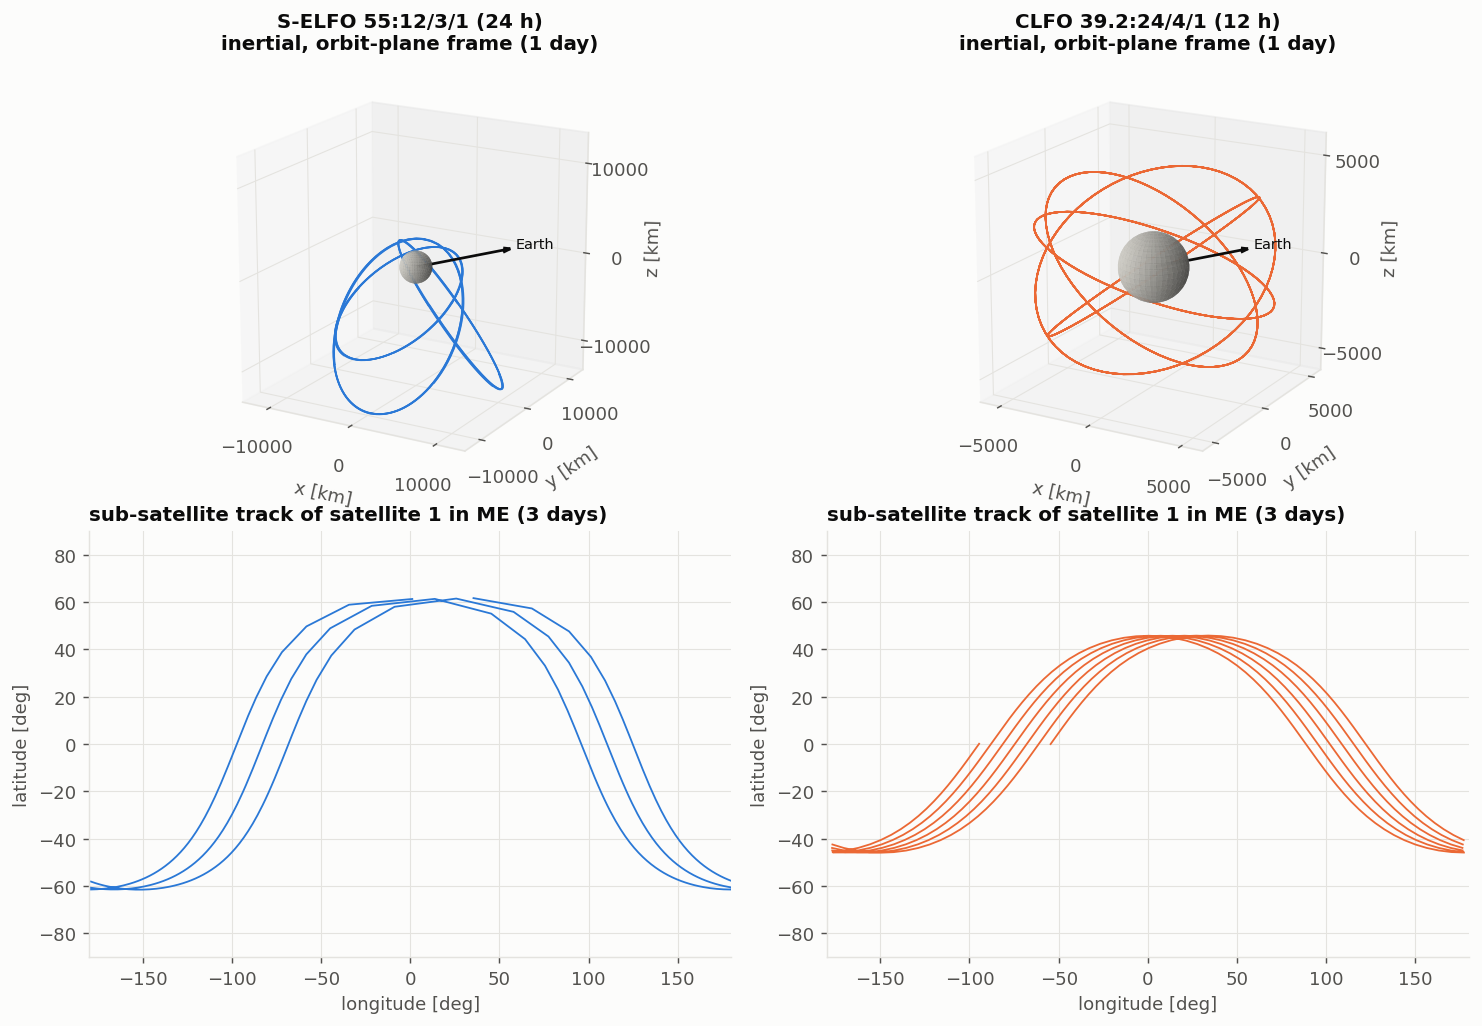
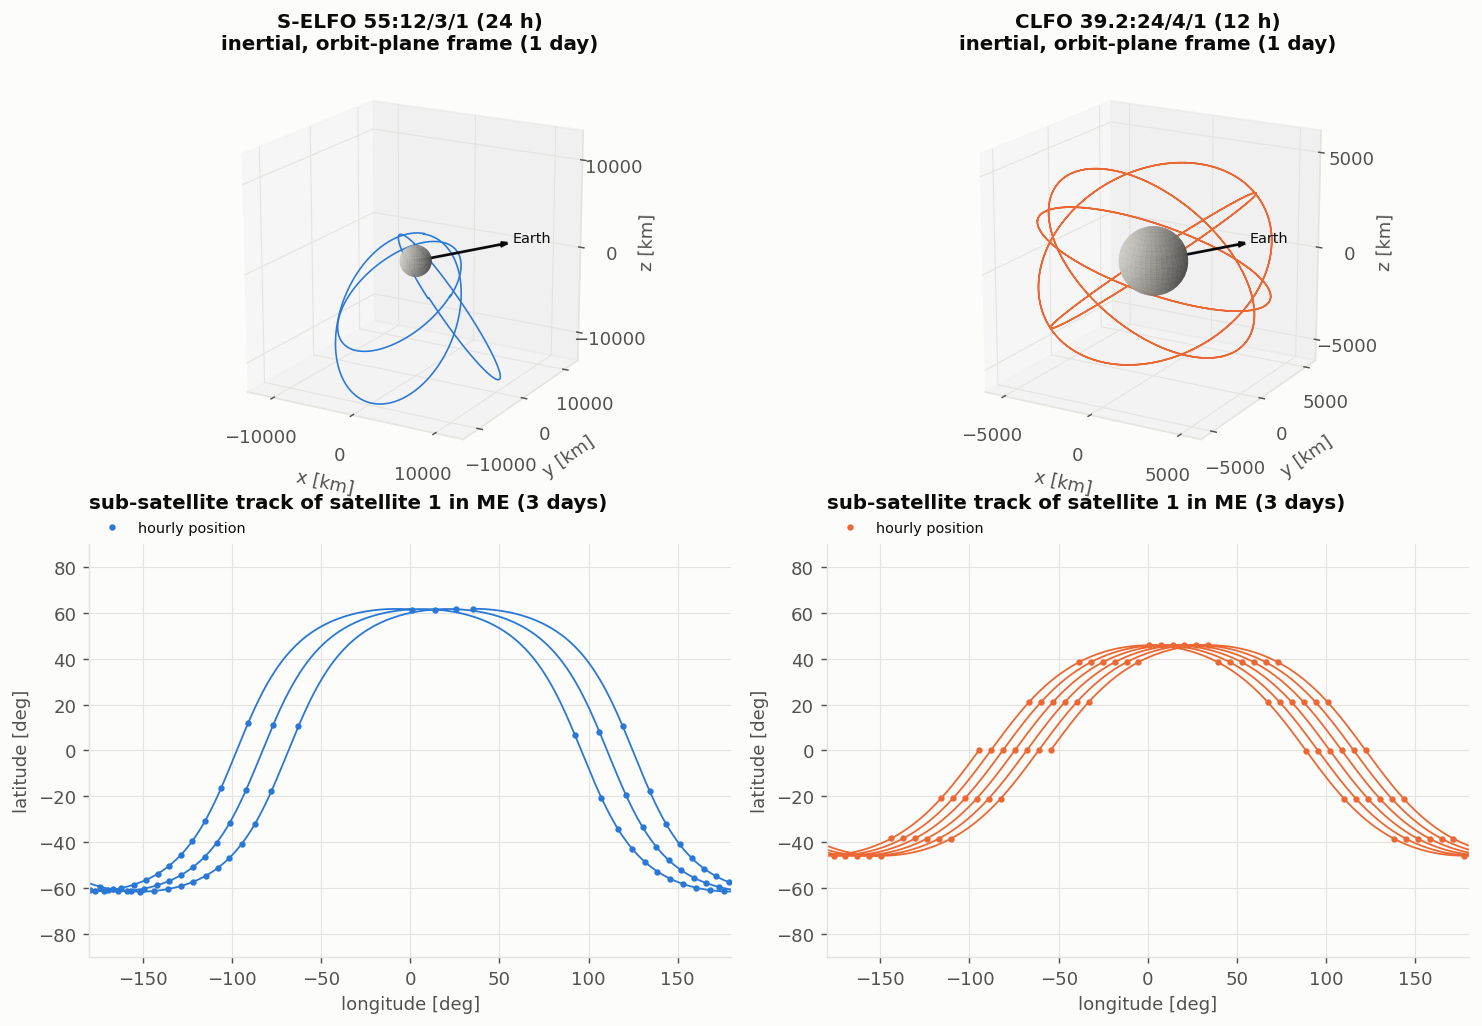
Fix figure artefacts and frame-plot directions
- Ground tracks and 3-D orbits were drawn from the 10 min analysis grid;
  near the 24 h ELFO perilune that is ~17 deg per sample, so tracks showed
  straight chords. Drawn satellites are now re-propagated on a 1 min grid,
  with hourly markers that show the apolune dwell over the south.
- PA vs ME arrows used angles="xy" on unequal map axes, which distorted
  their directions; now angles="uv" (true local east/north).
- Moved annotations and legends off the data in the frames and
  frozen-orbit figures; scoped the NaN warning filter.
- Docstrings: E1 node is J2000-referred (verified vs DE440: orbit-plane
  normal within 0.02 deg mean, 0.18 deg osculating); equator frame note.

diff --git a/scripts/run_demo.py b/scripts/run_demo.py
@@ -62,35 +62,38 @@ def fig_frames():
         lat[k], lon[k] = la, lo
     lon, lat = np.degrees(lon), np.degrees(lat)
 
-    fig, (a, b) = plt.subplots(1, 2, figsize=(11, 4.2), gridspec_kw={"width_ratios": [1, 1.25]})
+    fig, (a, b) = plt.subplots(1, 2, figsize=(11.5, 4.4), gridspec_kw={"width_ratios": [1, 1.3], "wspace": 0.3})
     a.plot(lon, lat, lw=0.35, color=BLUE, alpha=0.8)
     a.plot(0, 0, "+", color=ORANGE, ms=14, mew=2, label="mean Earth direction (ME +X)")
     a.set_xlabel("sub-Earth selenographic longitude [deg]")
     a.set_ylabel("sub-Earth latitude [deg]")
-    a.set_title("Optical libration seen in the ME frame (2 years)")
+    a.set_title("Earth libration in the ME frame (2 yr)")
     a.set_aspect("equal")
-    a.legend(loc="upper center", bbox_to_anchor=(0.5, -0.17), fontsize=8)
-    a.text(0.02, 0.97, f"max |lon| {np.abs(lon).max():.1f}°  max |lat| {np.abs(lat).max():.1f}°",
-           transform=a.transAxes, va="top", fontsize=8.5, color=INK2)
+    a.set_xlim(-10, 10); a.set_ylim(-9, 9)
+    a.legend(loc="upper center", bbox_to_anchor=(0.5, -0.15), fontsize=8, ncol=2,
+             title=f"max |lon| {np.abs(lon).max():.1f}°, max |lat| {np.abs(lat).max():.1f}°",
+             title_fontsize=8)
 
-    # displacement of a point when its ME coordinates are reinterpreted as PA coordinates
-    rot = R_pa_to_me()                      # v_ME = rot @ v_PA ; same label, different frame
-    la_g, lo_g = np.meshgrid(np.radians(np.arange(-75, 76, 25)), np.radians(np.arange(-150, 151, 30)))
+    # A point's PA coordinates u, misread as ME coordinates, land at u in ME; the point is really
+    # at rot @ u. Arrows go from the misread location to the true one, in local east/north metres.
+    rot = R_pa_to_me()                      # v_ME = rot @ v_PA
+    la_g, lo_g = np.meshgrid(np.radians(np.arange(-60, 61, 30)), np.radians(np.arange(-150, 151, 30)))
     la_g, lo_g = la_g.ravel(), lo_g.ravel()
     u = latlon_to_unit(la_g, lo_g)
-    d = (u @ rot.T - u) * C.R_MEAN * 1e3    # metres: ME position of the same PA-labelled point
+    d = (u @ rot.T - u) * C.R_MEAN * 1e3    # metres, ME components
     east = np.array([enu_basis(x, y)[0] @ dd for x, y, dd in zip(la_g, lo_g, d)])
     north = np.array([enu_basis(x, y)[1] @ dd for x, y, dd in zip(la_g, lo_g, d)])
-    q = b.quiver(np.degrees(lo_g), np.degrees(la_g), east, north, np.hypot(east, north), cmap="Blues",
-                 angles="xy", scale_units="xy", scale=45.0, width=0.004, clim=(0, 900))
-    b.quiverkey(q, 0.9, -0.2, 450, "450 m", labelpos="E", coordinates="axes")
+    # angles="uv": arrow direction is the true local compass direction, not distorted by
+    # the unequal degree scales of the map axes.
+    q = b.quiver(np.degrees(lo_g), np.degrees(la_g), east, north, color=BLUE, angles="uv",
+                 scale_units="inches", scale=2400.0, width=0.0045, pivot="middle")
+    b.quiverkey(q, 0.82, -0.17, 500, "500 m", labelpos="E", coordinates="axes", fontproperties={"size": 8})
     b.set_xlim(-180, 180)
-    b.set_ylim(-90, 90)
-    b.set_xlabel("longitude [deg]")
+    b.set_ylim(-80, 80)
+    b.set_xlabel("selenographic longitude [deg]")
     b.set_ylabel("latitude [deg]")
-    b.set_title("PA vs ME: shift of a surface point (DE440 offset)")
-    b.text(0.02, 0.97, f"rotation {np.degrees(np.arccos((np.trace(rot) - 1) / 2)):.4f}°, "
-           f"max {np.hypot(east, north).max():.0f} m", transform=b.transAxes, va="top", fontsize=8.5, color=INK2)
+    angle = np.degrees(np.arccos((np.trace(rot) - 1) / 2))
+    b.set_title(f"PA vs ME (DE440): {angle:.4f}°, up to {np.hypot(east, north).max():.0f} m")
     save(fig, "frames.png")
     return dict(lon_lib_max_deg=float(np.abs(lon).max()), lat_lib_max_deg=float(np.abs(lat).max()),
                 lon_mean_deg=float(lon.mean()), lat_mean_deg=float(lat.mean()),
@@ -119,8 +122,8 @@ def fig_frozen(days=90):
     axs[1].set_ylabel("inclination [deg]")
     axs[2].set_ylabel("arg. of periapsis [deg]")
     axs[2].set_xlabel("days since 2027-01-01")
-    axs[0].legend(fontsize=8.5, loc="upper left", ncol=2)
-    axs[0].set_title("24 h ELFO, i = 55°, e = frozen value, no station-keeping")
+    axs[0].legend(fontsize=8.5, loc="lower left", ncol=2, bbox_to_anchor=(0.0, 1.0))
+    axs[0].set_title("24 h ELFO, i = 55°, e = frozen value, no station-keeping", pad=24)
     save(fig, "frozen_orbit.png")
     summ = {}
     for label, el in out.items():
@@ -133,17 +136,20 @@ def fig_frozen(days=90):
 
 
 # --------------------------------------------------------------------------- constellations
-def region_stats(lat_deg, n_vis, dops, sel):
+def region_stats(n_vis, dops, sel):
     nv, p, h = n_vis[sel], dops["pdop"][sel], dops["hdop"][sel]
-    warnings.simplefilter("ignore", RuntimeWarning)     # all-NaN slices (never 4 sats) are reported as NaN
+    with warnings.catch_warnings():
+        warnings.simplefilter("ignore", RuntimeWarning)  # all-NaN slice (never 4 sats) -> NaN
+        median_pdop, p95 = float(np.nanmedian(p)), float(np.nanpercentile(p, 95))
+        median_hdop = float(np.nanmedian(h))
     return dict(
         users=int(sel.sum()),
         avail_4_sats_pct=float(100 * (nv >= 4).mean()),
         pdop_le_6_pct=float(100 * (p <= 6).mean()),
         pdop_le_3_pct=float(100 * (p <= 3).mean()),
-        median_pdop=float(np.nanmedian(p)),
-        p95_pdop=float(np.nanpercentile(p, 95)),
-        median_hdop=float(np.nanmedian(h)),
+        median_pdop=median_pdop,
+        p95_pdop=p95,
+        median_hdop=median_hdop,
         mean_visible=float(nv.mean()),
         min_visible=int(nv.min()),
     )
@@ -160,13 +166,15 @@ def run_constellation(const, days, step_s, users_unit, named):
 
 
 def fig_coverage(users_unit, results):
-    lat, lon = np.degrees(unit_to_latlon(users_unit))[0], np.degrees(unit_to_latlon(users_unit))[1]
+    lat, lon = np.degrees(unit_to_latlon(users_unit))
     n = len(users_unit)
     fig, axs = plt.subplots(2, 2, figsize=(11.5, 7.2))
     for row, (name, res) in enumerate(results.items()):
         _, _, _, n_vis, dops = res
         pd6 = 100 * (np.nan_to_num(dops["pdop"][:n], nan=1e9) <= 6).mean(axis=1)
-        med = np.nanmedian(dops["pdop"][:n], axis=1)
+        with warnings.catch_warnings():
+            warnings.simplefilter("ignore", RuntimeWarning)
+            med = np.nanmedian(dops["pdop"][:n], axis=1)
         ax = axs[row, 0]
         s = ax.scatter(lon, lat, c=pd6, s=16, cmap="Blues", vmin=-15, vmax=100, edgecolors=INK2, linewidths=0.3)
         ax.set_title(f"{name}\n% of time with PDOP ≤ 6")
@@ -203,7 +211,7 @@ def fig_southpole(results, named_index, days_shown=3):
     save(fig, "south_pole_timeseries.png")
 
 
-def fig_orbits(consts, results):
+def fig_orbits(consts):
     fig = plt.figure(figsize=(11.5, 8))
     q0 = R_icrf_to_orbit_plane(JD0)
     u = np.linspace(0, 2 * np.pi, 40); v = np.linspace(0, np.pi, 20)
@@ -211,15 +219,24 @@ def fig_orbits(consts, results):
                   C.R_MEAN * np.outer(np.ones_like(u), np.cos(v)))
     earth_dir = q0 @ (-moon_geocentric(JD0))
     earth_dir /= np.linalg.norm(earth_dir)
+    # The analysis grid (10 min) is too coarse to draw: near a 24 h ELFO's perilune the satellite
+    # sweeps ~17 deg per sample, so tracks would be drawn as straight chords. Re-propagate the
+    # drawn satellites on a 1 min grid instead (same force model and initial states).
+    t_draw = np.arange(0.0, 3 * 86400.0 + 1.0, 60.0)
     for k, (const, col) in enumerate(zip(consts, (BLUE, ORANGE))):
-        t, states, sats_me, _, _ = results[const.name]
+        n_planes = len({round(el[3], 9) for el in const.elements})
+        per_plane = const.n_sat // n_planes
+        drawn = []
+        for el in const.elements[::per_plane]:          # one satellite per plane
+            r0, v0 = elements_to_mci(el, JD0, const.reference)
+            drawn.append(propagate(r0, v0, JD0, t_draw, ForceModel()))
         ax = fig.add_subplot(2, 2, 1 + k, projection="3d")
         ax.plot_surface(sx, sy, sz, color="#cfcdc6", alpha=0.9, linewidth=0)
-        n_orbit = int(86400 / (t[1] - t[0]))
-        for s in states:
-            xyz = (q0 @ s[:n_orbit + 1, :3].T).T
+        one_day = t_draw <= 86400.0
+        xyz_all = [(q0 @ s[one_day, :3].T).T for s in drawn]
+        for xyz in xyz_all:
             ax.plot(*xyz.T, color=col, lw=0.9)
-        lim = np.abs(np.array([(q0 @ s[:n_orbit + 1, :3].T).T for s in states])).max()
+        lim = np.abs(np.array(xyz_all)).max()
         ax.quiver(0, 0, 0, *(earth_dir * lim * 0.9), color=INK, lw=1.5, arrow_length_ratio=0.08)
         ax.text(*(earth_dir * lim * 0.95), "Earth", fontsize=8)
         ax.set_title(f"{const.name}\ninertial, orbit-plane frame (1 day)")
@@ -231,14 +248,17 @@ def fig_orbits(consts, results):
         ax.view_init(elev=18, azim=-60)
 
         ax = fig.add_subplot(2, 2, 3 + k)
-        m = t <= 3 * 86400
-        lat, lon = unit_to_latlon(sats_me[0][m])
+        track_me = satellites_in_me(drawn[0][None, :, :3], JD0 + t_draw / 86400.0)[0]
+        lat, lon = unit_to_latlon(track_me)
         lon_d, lat_d = np.degrees(lon), np.degrees(lat)
         jump = np.where(np.abs(np.diff(lon_d)) > 180)[0] + 1
         lon_p, lat_p = np.insert(lon_d, jump, np.nan), np.insert(lat_d, jump, np.nan)
         ax.plot(lon_p, lat_p, color=col, lw=1.0)
+        hourly = slice(0, None, 60)
+        ax.plot(lon_d[hourly], lat_d[hourly], "o", ms=2.5, color=col, label="hourly position")
         ax.set_xlim(-180, 180); ax.set_ylim(-90, 90)
-        ax.set_title("sub-satellite track of satellite 1 in ME (3 days)")
+        ax.legend(fontsize=8, loc="lower left", bbox_to_anchor=(0.0, 1.0), borderaxespad=0.2)
+        ax.set_title("sub-satellite track of satellite 1 in ME (3 days)", pad=20)
         ax.set_xlabel("longitude [deg]"); ax.set_ylabel("latitude [deg]")
     fig.tight_layout()
     save(fig, "constellation_orbits.png")
@@ -333,16 +353,16 @@ def main():
     performance = {}
     for c in consts:
         _, _, _, n_vis, dops = results[c.name]
-        perf = {"global": region_stats(lat_all, n_vis, dops, np.arange(len(lat_all)) < args.users),
-                "south polar cap (lat <= -80)": region_stats(lat_all, n_vis, dops,
-                                                             (lat_all <= -80) & (np.arange(len(lat_all)) < args.users))}
+        grid = np.arange(len(lat_all)) < args.users
+        perf = {"global": region_stats(n_vis, dops, grid),
+                "south polar cap (lat <= -80)": region_stats(n_vis, dops, grid & (lat_all <= -80))}
         for site, idx in named_index.items():
-            perf[site] = region_stats(lat_all, n_vis, dops, np.arange(len(lat_all)) == idx)
+            perf[site] = region_stats(n_vis, dops, np.arange(len(lat_all)) == idx)
         performance[c.name] = perf
 
     fig_coverage(users, results)
     fig_southpole(results, named_index)
-    fig_orbits(consts, results)
+    fig_orbits(consts)
     spp = fig_spp(np.vstack([users, named]), results[consts[0].name], args.users, rng)
 
     out = dict(meta=dict(days=args.days, step_s=step_s, users=args.users), frames=frames, frozen=frozen,

diff --git a/lunarnav/frames.py b/lunarnav/frames.py
@@ -72,10 +72,11 @@ def iau_moon_angles(jd):
 
 
 def R_icrf_to_equator(jd):
-    """ICRF -> inertial frame whose Z is the lunar pole of date, X on the ICRF-equator node.
+    """ICRF -> inertial frame whose Z is the IAU lunar pole of date, X on the ICRF-equator node.
 
-    The lunar equator is the natural reference plane for inclination of a lunar orbit,
-    so orbit elements in this package are defined in this frame.
+    Optional reference for orbit elements (the default is ``R_icrf_to_orbit_plane``). The
+    IAU pole carries the forced-libration terms, so this frame wobbles by ~0.01 deg/day;
+    freeze it at one epoch when measuring secular element rates.
     """
     alpha0, delta0, _ = iau_moon_angles(jd)
     return rot_x(np.pi / 2 - delta0) @ rot_z(np.pi / 2 + alpha0)
@@ -84,10 +85,13 @@ def R_icrf_to_equator(jd):
 def R_icrf_to_orbit_plane(jd):
     """ICRF -> inertial frame whose Z is the normal of the mean Earth-Moon orbit plane.
 
-    The plane is inclined 5.145 deg to the ecliptic with its node regressing at the rate of
-    the IAU argument E1 (18.6 yr). Third-body (Earth) perturbation theory measures a lunar
-    orbit's inclination from this plane, so frozen-orbit design uses it as the reference.
-    Mean-element model only (node referred to J2000 ecliptic, ~0.4 deg error by 2100).
+    The plane is inclined 5.145 deg to the J2000 ecliptic with its ascending node at the IAU
+    argument E1. E1 is the lunar mean node referred to the fixed J2000 equinox: its rate
+    (-1935.54 deg/cy) is Meeus' node-of-date rate (-1934.14 deg/cy) minus the 1.40 deg/cy
+    general precession. Third-body (Earth) perturbation theory measures a lunar orbit's
+    inclination from this plane, so frozen-orbit design uses it as the reference.
+    Mean plane only: against DE440 the mean normal agrees to 0.02 deg, and the osculating
+    plane departs by up to 0.18 deg (the 173-day inclination oscillation).
     """
     node = np.radians(_E_EPOCH[0] + _E_RATE[0] * float(centuries_since_j2000(jd)))
     return rot_x(INCL_LUNAR_ORBIT) @ rot_z(node) @ rot_x(OBLIQUITY_J2000)
